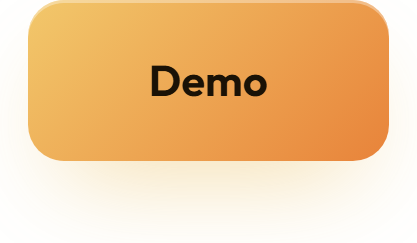
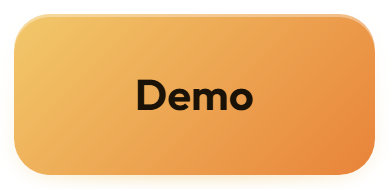
README: trim Demo button glow, tighten gap to the button row

diff --git a/README.md b/README.md
@@ -24,8 +24,8 @@
 </p>
 
 <p align="center">
-  <a href="https://varianttech.net/demo"><img src="https://raw.githubusercontent.com/oooscoos/Benzi/main/assets/cta2_demo.png" width="150" alt="Demo"></a>
-  <br><br>
+  <a href="https://varianttech.net/demo"><img src="https://raw.githubusercontent.com/oooscoos/Benzi/main/assets/cta2_demo.png" width="140" alt="Demo"></a>
+  <br>
   <a href="#getting-started"><img src="https://raw.githubusercontent.com/oooscoos/Benzi/main/assets/cta2_download.png" width="136" alt="Download"></a>
   &nbsp;&nbsp;&nbsp;&nbsp;
   <a href="#faq"><img src="https://raw.githubusercontent.com/oooscoos/Benzi/main/assets/cta2_faq.png" width="101" alt="FAQ"></a>
